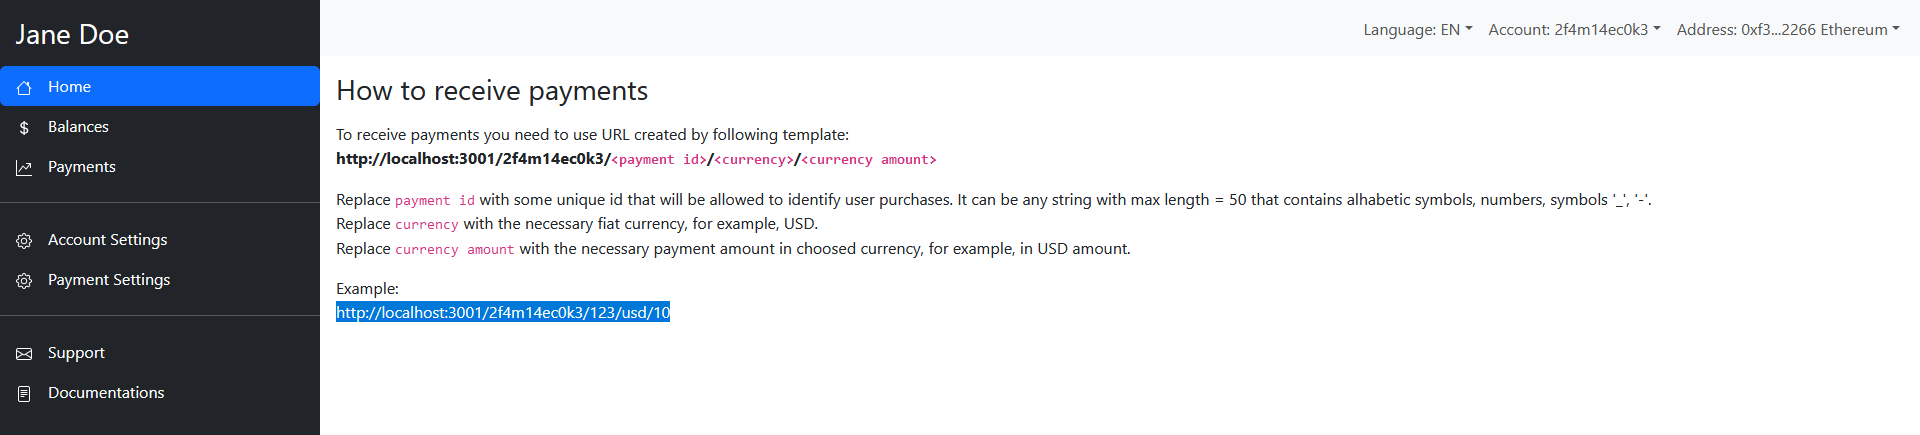
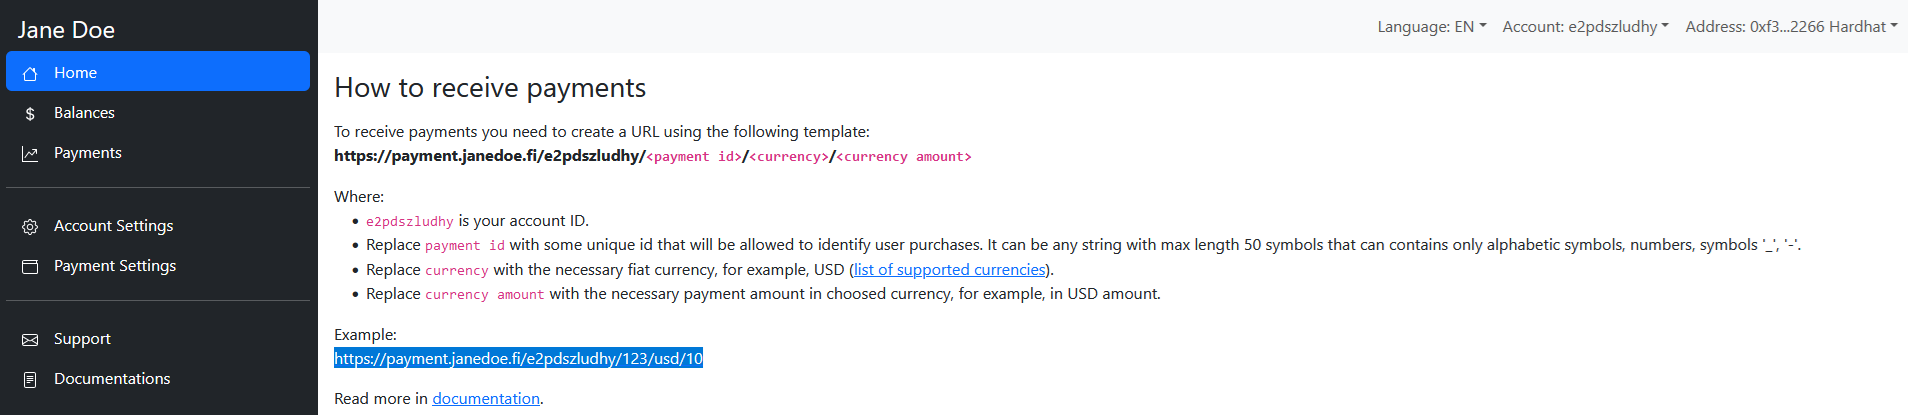
update screenshots with links for prod, minor fixes

diff --git a/apps/account/src/pages/Accounts/index.tsx b/apps/account/src/pages/Accounts/index.tsx
@@ -7,13 +7,13 @@ import useLocalStorageState from 'use-local-storage-state'
 import './index.css'
 
 import { useInfoMessages } from '../../states/application/hook'
-import { authDataKey, convertErrorToMessage } from '../../libs/utils'
+import { convertErrorToMessage } from '../../libs/utils'
 import SettingsLoader from '../../states/settings/loader'
 import { AuthData } from '../../types/auth-data'
 import { ApiWrapper } from '../../libs/services/api-wrapper'
 import useApiRequestImmediate from '../../libs/hooks/useApiRequestImmediate'
 import { SharedAccountProfileResponse } from '../../types/account-profile'
-import { INFO_MESSAGE_SHARED_ACCOUNT_LOAD_ERROR } from '../../constants'
+import { AUTH_DATA_KEY, INFO_MESSAGE_SHARED_ACCOUNT_LOAD_ERROR } from '../../constants'
 import AuthNavbar from '../../components/navbars/AuthNavbar'
 import InfoMessages from '../../components/InfoMessages'
 
@@ -21,7 +21,7 @@ const Accounts: React.FC = () => {
   const { t } = useTranslation()
   const navigate = useNavigate()
   const { hash } = useLocation()
-  const [authData] = useLocalStorageState<AuthData>(authDataKey())
+  const [authData] = useLocalStorageState<AuthData>(AUTH_DATA_KEY)
 
   const { addInfoMessage, removeInfoMessage } = useInfoMessages()
 

diff --git a/apps/account/src/pages/Auth/index.tsx b/apps/account/src/pages/Auth/index.tsx
@@ -9,8 +9,8 @@ import { useLocation, useNavigate } from 'react-router-dom'
 import './index.css'
 
 import { useInfoMessages } from '../../states/application/hook'
-import { authDataKey, convertErrorToMessage } from '../../libs/utils'
-import { INFO_MESSAGE_AUTH_ERROR } from '../../constants'
+import { convertErrorToMessage } from '../../libs/utils'
+import { AUTH_DATA_KEY, INFO_MESSAGE_AUTH_ERROR } from '../../constants'
 import { AuthData } from '../../types/auth-data'
 import { ApiWrapper } from '../../libs/services/api-wrapper'
 import useApiRequest from '../../libs/hooks/useApiRequest'
@@ -27,7 +27,7 @@ const Auth: React.FC = () => {
   const { open } = useWeb3Modal()
 
   const { addInfoMessage, removeInfoMessage } = useInfoMessages()
-  const [authData, setAuthData, { removeItem: removeAuthData }] = useLocalStorageState<AuthData>(authDataKey())
+  const [authData, setAuthData, { removeItem: removeAuthData }] = useLocalStorageState<AuthData>(AUTH_DATA_KEY)
   const { status: retrieveNonceStatus, process: retrieveNonce } = useApiRequest<AccountNonce>()
   const { status: authStatus, process: auth } = useApiRequest<AuthData>()
 

diff --git a/apps/account/src/components/navbars/components/AccountsDropdown/index.tsx b/apps/account/src/components/navbars/components/AccountsDropdown/index.tsx
@@ -4,17 +4,17 @@ import { useTranslation } from 'react-i18next'
 import useLocalStorageState from 'use-local-storage-state'
 
 import { AuthData } from '../../../../types/auth-data'
-import { authDataKey, convertErrorToMessage } from '../../../../libs/utils'
+import { convertErrorToMessage } from '../../../../libs/utils'
 import { useLocation, useParams } from 'react-router-dom'
 import useApiRequestImmediate from '../../../../libs/hooks/useApiRequestImmediate'
 import { SharedAccountProfileResponse } from '../../../../types/account-profile'
 import { ApiWrapper } from '../../../../libs/services/api-wrapper'
 import { useInfoMessages } from '../../../../states/application/hook'
-import { INFO_MESSAGE_SHARED_ACCOUNT_LOAD_ERROR } from '../../../../constants'
+import { AUTH_DATA_KEY, INFO_MESSAGE_SHARED_ACCOUNT_LOAD_ERROR } from '../../../../constants'
 
 const AccountsDropdown: React.FC = () => {
   const { t } = useTranslation()
-  const [authData] = useLocalStorageState<AuthData>(authDataKey())
+  const [authData] = useLocalStorageState<AuthData>(AUTH_DATA_KEY)
   const { hash } = useLocation()
   const { id } = useParams()
 

diff --git a/apps/account/src/libs/hooks/useApiRequest.ts b/apps/account/src/libs/hooks/useApiRequest.ts
@@ -3,11 +3,11 @@ import { useNavigate, useParams } from 'react-router-dom'
 import useLocalStorageState from 'use-local-storage-state'
 
 import { AuthData } from '../../types/auth-data'
-import { authDataKey } from '../utils'
 import { UnathError } from '../../types/unauth-error'
 import { ApiWrapper } from '../services/api-wrapper'
 import { ApiRequest, ApiRequestResult, ApiRequestStatus } from '../../types/api-request'
 import { useConfig } from '../../context/config/hook'
+import { AUTH_DATA_KEY } from '../../constants'
 
 export default function useApiRequest<T>(): ApiRequestResult<T> {
   const [data, setData] = useState<T | undefined>(undefined)
@@ -15,7 +15,7 @@ export default function useApiRequest<T>(): ApiRequestResult<T> {
   const [error, setError] = useState<Error | undefined>(undefined)
 
   const { id } = useParams()
-  const [authData, , { removeItem: removeAuthData }] = useLocalStorageState<AuthData>(authDataKey())
+  const [authData, , { removeItem: removeAuthData }] = useLocalStorageState<AuthData>(AUTH_DATA_KEY)
   const navigate = useNavigate()
   const config = useConfig()
 

diff --git a/apps/account/src/components/Guards/AuthGuard/index.tsx b/apps/account/src/components/Guards/AuthGuard/index.tsx
@@ -3,11 +3,11 @@ import { useLocation, useNavigate } from 'react-router-dom'
 import useLocalStorageState from 'use-local-storage-state'
 
 import { AuthData } from '../../../types/auth-data'
-import { authDataKey } from '../../../libs/utils'
 import { ApiWrapper } from '../../../libs/services/api-wrapper'
 import useApiRequest from '../../../libs/hooks/useApiRequest'
 import { useAccount, useDisconnect } from 'wagmi'
 import { useInfoMessages } from '../../../states/application/hook'
+import { AUTH_DATA_KEY } from '../../../constants'
 
 interface AuthGuardProps {
   element: React.ReactElement
@@ -19,7 +19,7 @@ const AuthGuard: React.FC<AuthGuardProps> = (props) => {
 
   const navigate = useNavigate()
   const { hash } = useLocation()
-  const [, , { removeItem: removeAuthData }] = useLocalStorageState<AuthData>(authDataKey())
+  const [, , { removeItem: removeAuthData }] = useLocalStorageState<AuthData>(AUTH_DATA_KEY)
   const { isConnected, address } = useAccount()
   const {disconnect} = useDisconnect()
 

diff --git a/apps/api/src/app-config.ts b/apps/api/src/app-config.ts
@@ -93,6 +93,10 @@ export function createAppConfig() {
     throw new Error('BUCKET_NAME_DATA is not set')
   }
 
+  if (!process.env.PAYMENT_NOTIFICATION_FROM_EMAIL) {
+    throw new Error('PAYMENT_NOTIFICATION_FROM_EMAIL is not set')
+  }
+
   if (!process.env.METRIC_RANGO_NAMESPACE) {
     throw new Error('METRIC_RANGO_NAMESPACE is not set')
   }
@@ -141,6 +145,7 @@ export function createAppConfig() {
     TABLE_NAME: process.env.TABLE_NAME,
     TABLE_NAME_TIME_SERIES: process.env.TABLE_NAME_TIME_SERIES,
     BUCKET_NAME_DATA: process.env.BUCKET_NAME_DATA,
+    PAYMENT_NOTIFICATION_FROM_EMAIL: process.env.PAYMENT_NOTIFICATION_FROM_EMAIL,
     METRIC_RANGO_NAMESPACE: process.env.METRIC_RANGO_NAMESPACE,
     METRIC_RANGO_NAME: process.env.METRIC_RANGO_NAME,
     METRIC_RANGO_CONVERSION_NAMESPACE: process.env.METRIC_RANGO_CONVERSION_NAMESPACE,

diff --git a/apps/sandbox/src/app-config.ts b/apps/sandbox/src/app-config.ts
@@ -93,6 +93,10 @@ export function createAppConfig() {
     throw new Error('BUCKET_NAME_DATA is not set')
   }
 
+  if (!process.env.PAYMENT_NOTIFICATION_FROM_EMAIL) {
+    throw new Error('PAYMENT_NOTIFICATION_FROM_EMAIL is not set')
+  }
+
   if (!process.env.METRIC_RANGO_NAMESPACE) {
     throw new Error('METRIC_RANGO_NAMESPACE is not set')
   }
@@ -141,6 +145,7 @@ export function createAppConfig() {
     TABLE_NAME: process.env.TABLE_NAME,
     TABLE_NAME_TIME_SERIES: process.env.TABLE_NAME_TIME_SERIES,
     BUCKET_NAME_DATA: process.env.BUCKET_NAME_DATA,
+    PAYMENT_NOTIFICATION_FROM_EMAIL: process.env.PAYMENT_NOTIFICATION_FROM_EMAIL,
     METRIC_RANGO_NAMESPACE: process.env.METRIC_RANGO_NAMESPACE,
     METRIC_RANGO_NAME: process.env.METRIC_RANGO_NAME,
     METRIC_RANGO_CONVERSION_NAMESPACE: process.env.METRIC_RANGO_CONVERSION_NAMESPACE,

diff --git a/apps/installer/lib/main-stack.ts b/apps/installer/lib/main-stack.ts
@@ -574,6 +574,7 @@ function handler(event) {
             TABLE_NAME: output.tableData?.tableName ?? '',
             TABLE_NAME_TIME_SERIES: output.tableTimeSeries?.tableName ?? '',
             BUCKET_NAME_DATA: output.bucketData?.bucketName ?? '',
+            PAYMENT_NOTIFICATION_FROM_EMAIL: env('PAYMENT_NOTIFICATION_FROM_EMAIL'),
             METRIC_RANGO_NAMESPACE: output.alarmMetricRango?.namespace ?? '',
             METRIC_RANGO_NAME: output.alarmMetricRango?.metricName ?? '',
             METRIC_RANGO_CONVERSION_NAMESPACE: output.alarmMetricRangoConversion?.namespace ?? '',

diff --git a/apps/account/src/components/Home/index.tsx b/apps/account/src/components/Home/index.tsx
@@ -1,13 +1,13 @@
 import { Trans, useTranslation } from 'react-i18next'
 import useLocalStorageState from 'use-local-storage-state'
 
-import { authDataKey } from '../../libs/utils'
 import { AuthData } from '../../types/auth-data'
 import { useConfig } from '../../context/config/hook'
+import { AUTH_DATA_KEY } from '../../constants'
 
 const Home: React.FC = () => {
   const { t } = useTranslation()
-  const [authData] = useLocalStorageState<AuthData>(authDataKey())
+  const [authData] = useLocalStorageState<AuthData>(AUTH_DATA_KEY)
   const config = useConfig()
 
   return (

diff --git a/apps/account/src/libs/utils.ts b/apps/account/src/libs/utils.ts
@@ -8,10 +8,6 @@ import { PaymentHistory, PaymentHistoryData } from '../types/payment-history'
 import { ServiceError } from '../types/service-error'
 import { PERMISSION_PRIORITY, PUBLIC_NODE_RPCS } from '../constants'
 
-export function authDataKey(): string {
-  return `${import.meta.env.VITE_APP_APP_PREFIX ?? 'janedoe'}:authData`
-}
-
 export function convertErrorToMessage(error: any, defaultMessage: string, curDepth: number = 1, maxDepth: number = 10): string {
   if ('string' === typeof error) {
     return error

diff --git a/apps/account/src/constants.ts b/apps/account/src/constants.ts
@@ -2,6 +2,7 @@ import { Chain, arbitrum, avalanche, base, bsc, cronos, hardhat, linea, mainnet,
 import { Permission } from './types/account-settings'
 import { PaymentHistoryDataFilter } from './types/payment-history'
 
+export const AUTH_DATA_KEY = 'janedoe:authData'
 export const DEFAULT_CURRENCY_DECIMAL_PLACES = 4
 
 export const INFO_MESSAGE_SETTINGS_ERROR = 'settings_load_error'

diff --git a/apps/api/src/services/ipn-service.ts b/apps/api/src/services/ipn-service.ts
@@ -101,7 +101,6 @@ export class IpnServiceImpl implements IpnService {
           error: 'Internal server error'
         }
     }
-    const id = [ipnKey.accountId, ipnKey.paymentId, ipnKey.blockchain.toLocaleLowerCase(), ipnKey.transaction, ipnKey.index].join(':')
 
     logger.debug(`IpnService: start to save ipn result`)
     logger.debug(ipnKey)
